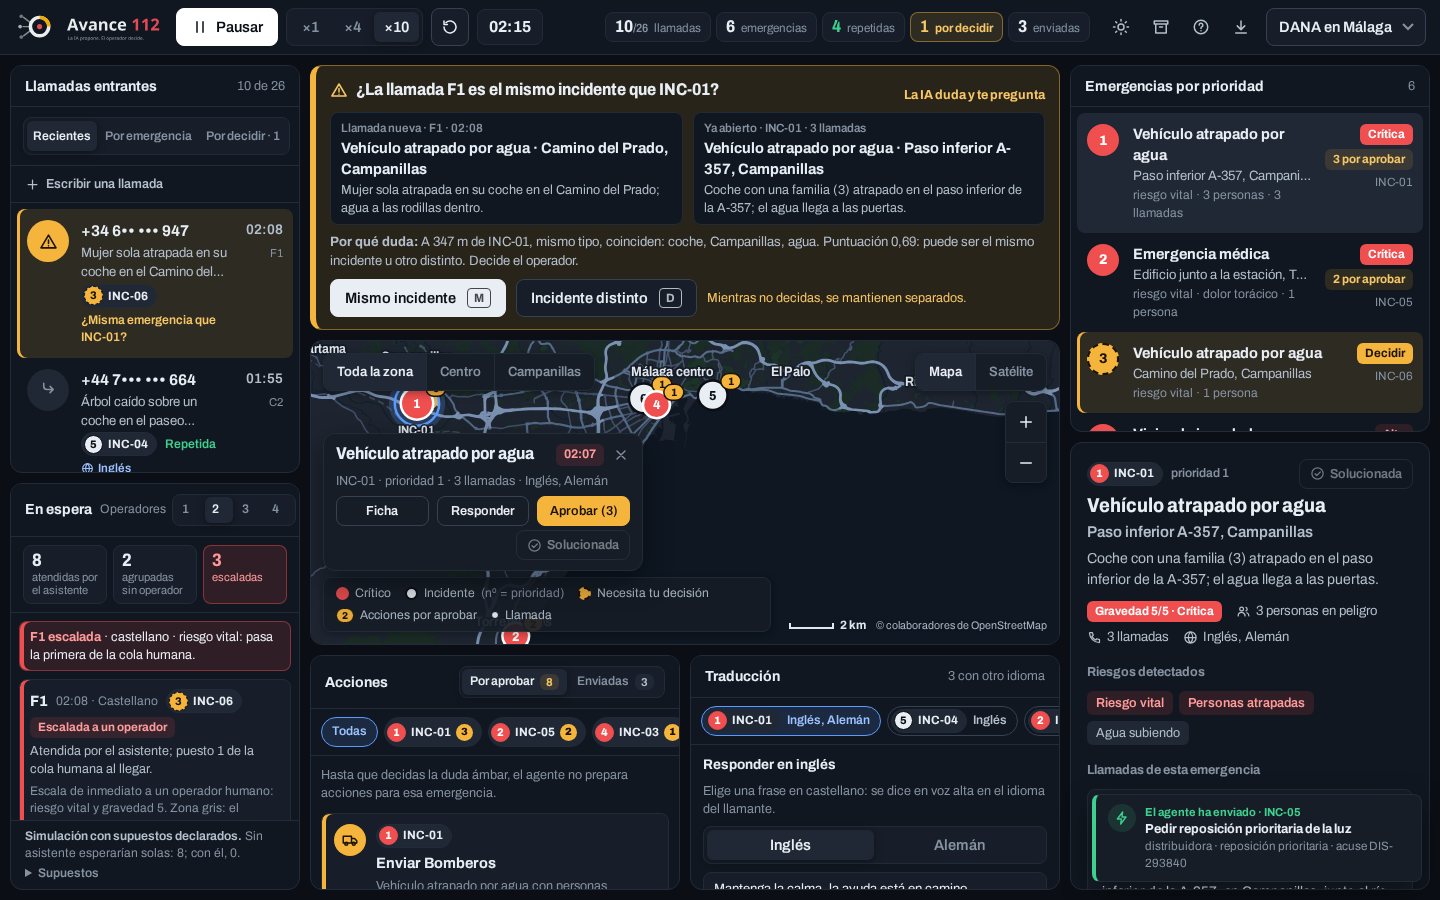
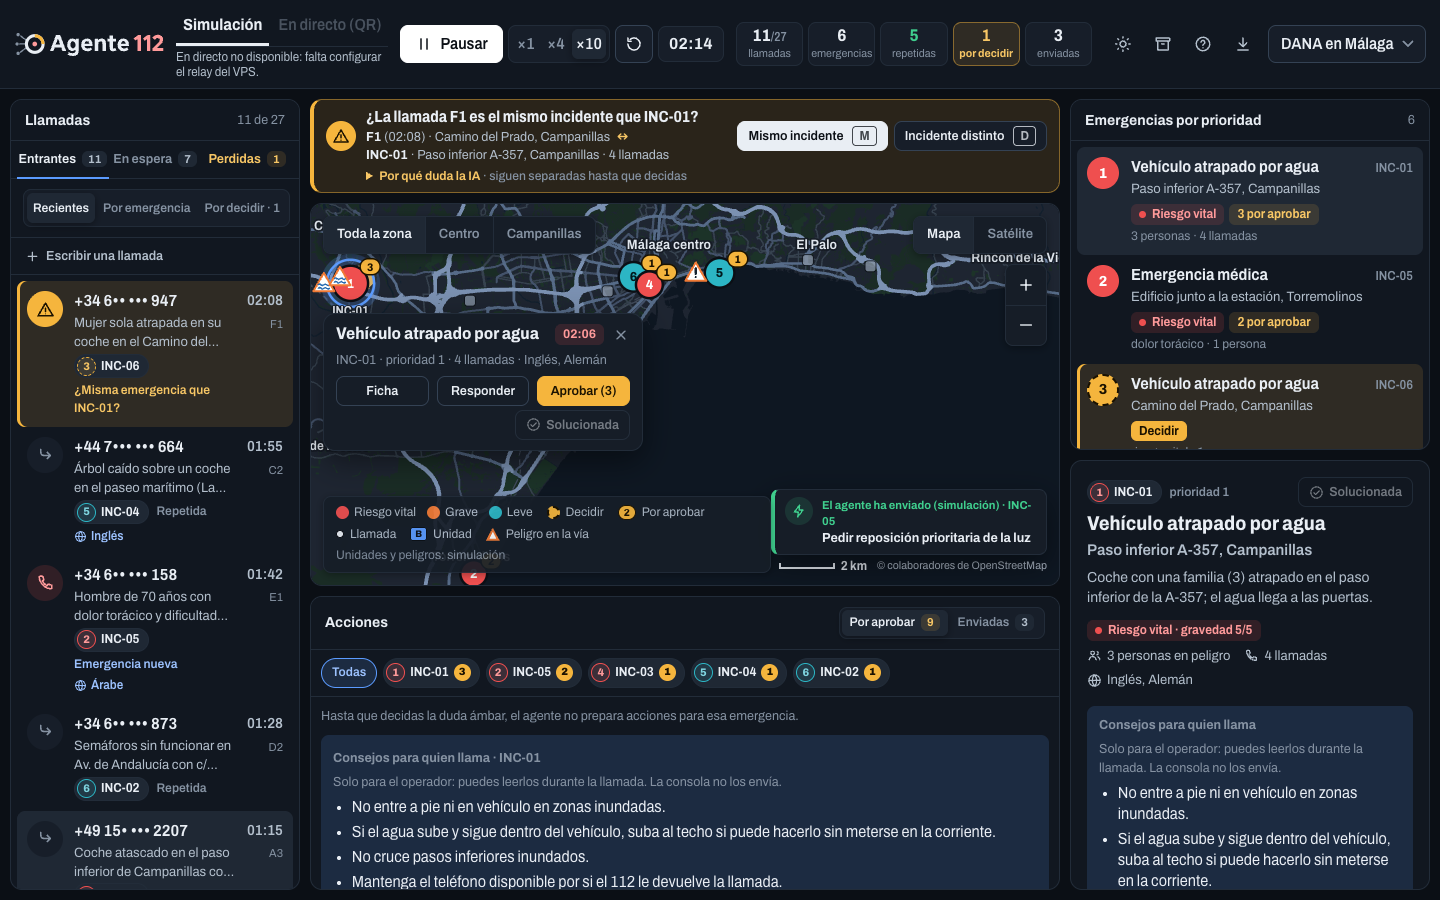
chore(limpieza): fuera el componente del QR sin uso y 41 capturas de pruebas; imagen y datos del README al día

diff --git a/app/globals.css b/app/globals.css
@@ -958,10 +958,6 @@ button.inc-token[aria-pressed="true"] { border-color: var(--accent); background:
 .conn { font-size: 12px; font-weight: 700; padding: 2px 8px; border-radius: 999px; border: 1px solid var(--line-strong); color: var(--ink-3); }
 .conn-open { color: var(--ok); background: var(--ok-bg); border-color: var(--ok); }
 .conn-down { color: var(--red); background: var(--red-bg); border-color: var(--red); }
-.qr { display: flex; align-items: center; gap: 10px; }
-.qr-img { width: 96px; height: 96px; flex: none; border: 1px solid var(--line); border-radius: var(--radius); background: #fff; }
-.qr-img svg { display: block; width: 100%; height: 100%; }
-.qr-url { font-weight: 600; color: var(--ink-2); overflow-wrap: anywhere; }
 .inbox-token input { flex: 1; min-width: 0; min-height: 38px; border: 1px solid var(--line-strong); border-radius: var(--radius); padding: 0 8px; background: var(--surface); }
 .inbox-list { display: grid; gap: 8px; }
 .inbox-item { border: 1px solid var(--line); border-radius: var(--radius); padding: 10px; display: grid; gap: 4px; background: var(--surface); }

diff --git a/README.md b/README.md
@@ -11,13 +11,13 @@ npm install
 npm run dev        # http://localhost:3000
 ```
 
-Pulsa **Iniciar** (velocidad ×4 o ×10). Verás 26 llamadas en 6 idiomas convertirse en 7 incidentes. Dos veces la consola se para en **ámbar** y pregunta: `M` = mismo incidente, `D` = incidente distinto. En el modo simulado la agrupación y la prioridad **se calculan igual** con el algoritmo real; solo la extracción de cada llamada viene del guion. La demo no hace ninguna petición externa: el mapa es una ortofoto del IGN incluida en la aplicación (sin teselas) y la fuente se instala con npm. El botón **Cómo funciona** lo explica todo en un minuto; el mapa se arrastra y se acerca con la rueda o con + y −.
+Pulsa **Iniciar** (velocidad ×4 o ×10). Verás 27 llamadas en 6 idiomas convertirse en 7 incidentes. Dos veces la consola se para en **ámbar** y pregunta: `M` = mismo incidente, `D` = incidente distinto. En el modo simulado la agrupación y la prioridad **se calculan igual** con el algoritmo real; solo la extracción de cada llamada viene del guion. La demo no hace ninguna petición externa: el mapa de calles y la ortofoto del IGN van incluidos en la aplicación (sin teselas) y la fuente se instala con npm. El botón **Cómo funciona** lo explica todo en un minuto; el mapa se arrastra y se acerca con la rueda o con + y −.
 
-En la pestaña **Simulación**, el selector cambia entre dos escenarios: **DANA en Málaga** (26 llamadas, 6 idiomas) y **Apagón en Málaga** (16 llamadas: ascensores, semáforos, oxígeno domiciliario y una residencia sin luz), para ver que el sistema generaliza.
+En la pestaña **Simulación**, el selector cambia entre dos escenarios: **DANA en Málaga** (27 llamadas, 6 idiomas) y **Apagón en Málaga** (16 llamadas: ascensores, semáforos, oxígeno domiciliario y una residencia sin luz), para ver que el sistema generaliza.
 
 ## Qué enseña la demo
 
-1. **Agrupar**: 26 llamadas → 7 incidentes. El contador de «repetidas» (líneas que quedan libres) sube; cada llamada lleva la etiqueta de su incidente (③ INC-03, el mismo número que en el mapa).
+1. **Agrupar**: 27 llamadas → 7 incidentes. El contador de «repetidas» (líneas que quedan libres) sube; cada llamada lleva la etiqueta de su incidente (③ INC-03, el mismo número que en el mapa).
 2. **Información nueva**: una llamada duplicada no se descarta; si dice «hay un bebé» o «no contesta», se avisa y sube la prioridad.
 3. **La ubicación del llamante no es la del incidente**: quien llama desde otro barrio se agrupa por la dirección que menciona.
 4. **Zona gris visible**: un segundo coche atrapado a ~460 m del primero no se fusiona solo; decide el operador.
@@ -82,7 +82,7 @@ Al final, el **parte de situación**, rotulado como simulación, recoge llamadas
 
 ### Dónde se ve en la consola
 
-En **Simulación**, el detalle del incidente muestra las tarjetas de «Acciones del agente», con **Aprobar y enviar** o **Descartar** cuando corresponde al operador. ES-Alert se muestra sin esos botones en los incidentes de la zona. Los envíos simulados aparecen sobre el mapa con su acuse; la cabecera cuenta las acciones enviadas, la cola marca las propuestas por aprobar y el registro JSON incluye la traza de acciones. **En directo (QR)** no genera acciones ni reproduce el audio del escenario.
+En **Simulación**, el detalle del incidente muestra las tarjetas de «Acciones del agente», con **Aprobar y enviar** o **Descartar** cuando corresponde al operador. ES-Alert se muestra sin esos botones en los incidentes de la zona. Los envíos simulados aparecen sobre el mapa con su acuse; la cabecera cuenta las acciones enviadas, la cola marca las propuestas por aprobar y el registro JSON incluye la traza de acciones. **En directo (QR)** muestra también la caja de Acciones para los incidentes de las llamadas aceptadas, separada de la de Simulación; no reproduce el audio del escenario ni usa las unidades simuladas.
 
 ### Ejecutar el agente en terminal
 
@@ -106,7 +106,7 @@ También se admiten los alias `--scenario`, `--operators`, `--coordinator` y `--
 
 ## Llamadas del público por QR (opcional)
 
-El público escanea el QR compartido, abre `/llamar` en el móvil y graba una llamada de prueba (sin mínimo, máximo 2 minutos). Dice qué pasa y **dónde** (calle o barrio de Málaga). El audio va a un relay en un VPS que lo transcribe con Whisper en CPU, extrae tipo, riesgos y lugar con un LLM si se configura, con reglas deterministas de respaldo (`lib/rules.ts`, `lib/gazetteer.ts`) y lo envía por SSE a la **bandeja «Llamadas del público»** de la consola. Nada entra en el mapa ni en la agrupación hasta que el operador pulsa **Aceptar**. Si no se reconoce el lugar, la llamada nunca se fusiona sola.
+El público escanea el QR compartido, abre `/llamar` en el móvil y graba una llamada de prueba (sin mínimo, máximo 2 minutos). Dice qué pasa y **dónde** (calle o barrio de Málaga). El audio va a un relay en un VPS que lo transcribe con Whisper (en la demo, en la GPU del ordenador del equipo), extrae tipo, riesgos y lugar con un LLM si se configura, con reglas deterministas de respaldo (`lib/rules.ts`, `lib/gazetteer.ts`) y lo envía por SSE a la **bandeja «Llamadas del público»** de la consola. Nada entra en el mapa ni en la agrupación hasta que el operador pulsa **Aceptar**. Si no se reconoce el lugar, la llamada nunca se fusiona sola.
 
 Para compartir el QR, abre `/qr-llamar.png` en la web desplegada o descarga el [PNG](public/qr-llamar.png), el [SVG](public/qr-llamar.svg) o la [tarjeta para presentaciones](public/qr-llamar-tarjeta.png). Si cambia la dirección pública, ejecuta desde la raíz `npx tsx scripts/qr-image.ts https://tu-dominio/llamar` con las dependencias del proyecto y Chromium de Playwright disponibles. Si Chromium está en otra ruta, indica el ejecutable con `CHROMIUM_EXECUTABLE_PATH`. El script regenera los tres archivos en `public/` sin consultar servicios externos.
 
@@ -135,13 +135,13 @@ navegador (consola) ── POST /api/process ──▶ servidor Next.js (sin est
 ## Comprobaciones
 
 ```bash
-npm run build && npm test && npm run eval     # compilación, 27 tests, evaluación sobre el escenario
+npm run build && npm test && npm run eval     # compilación, tests, evaluación sobre el escenario
 npm run eval:apagon                           # evaluación del escenario del apagón (6 incidentes, 1 pregunta)
 npm run eval -- --live                        # lo mismo con el LLM local (se salta si no hay LLM_BASE_URL)
 npm run start -- -p 3112 & node scripts/e2e.mjs   # prueba extremo a extremo con Playwright
 ```
 
-`npm run eval` agrupa las 26 llamadas y compara con la referencia: **7 incidentes, 0 fusiones incorrectas, 2 preguntas al operador**, y la llamada en árabe (infarto) entre las dos primeras de la cola.
+`npm run eval` agrupa las 27 llamadas y compara con la referencia: **7 incidentes, 0 fusiones incorrectas, 2 preguntas al operador**, y la llamada en árabe (infarto) entre las dos primeras de la cola.
 
 ## Privacidad y Ley de IA
 

diff --git a/odd/tasks/llamadas-publico.md b/odd/tasks/llamadas-publico.md
@@ -171,3 +171,4 @@ export function isPublicCallEvent(x: unknown): x is PublicCallEvent;
 - **L62** (usuario, con captura): «este hueco de la demo en simulación son las acciones añadelo para que se quede a la par la simulación y la demo». Antes, sobre el QR: «Ya está en el main el imagen del qr» → las imágenes se subieron a `main` en 1d6d511 junto con la fusión de cd701e4 (presentación de 9 diapositivas del compañero, sin conflictos).
 - **L63** (T30–T33 y correcciones): T30 — la leyenda se oculta mientras se ve la tarjeta de inicio (`.map-wrap:has(.welcome-actions) .map-legend`), comprobado en 4 tamaños × 2 temas; `public/qr-llamar.svg`, `qr-llamar.png` y `qr-llamar-tarjeta.png` con `scripts/qr-image.ts` (los PNG decodifican la URL exacta). T31 — panel sin QR; `event: hello` con la época del almacén y `cleared` con la nueva: una época distinta vacía la sesión en directo de la consola (acción `relayEpoch`). T32 — `lib/streetNames.ts` (5 086 vías dentro del límite municipal de Málaga, relación OSM 340746; `scripts/build_street_names.py --input … --boundary …`), `lib/streets.ts` (coincidencia aproximada limitada a confusiones de transcripción y nombres largos; una palabra suelta sin tipo de vía no basta; homónimos dentro del municipio no se adivinan; tramos encadenados de una avenida cuentan como una vía), afinado al portal con el nombre corregido si hay geocodificador; el índice se consulta siempre. Usuario: «SI dice direcciones que no sabe si es de málaga o duda ponlo en la palacio de feria y congreso de málaga» → `UNKNOWN_LOCATION_AML` = 36.70605, -4.45983 (sigue `known: false`). Idioma: manda Whisper si su código está admitido; el del modelo solo si el de Whisper no lo está; si ninguno, `und`. T33 — Acciones en directo aisladas de la Simulación, persistidas en la instantánea validada y borradas con la época; unidades y peligros siguen solo en Simulación; barra superior en una fila hasta 1366 px. Verificación independiente sobre 583c753: S30 y S31 cumplidas; S32 con dos fallos (vías de otros municipios, correcciones de una letra) corregidos en f4964ea. Verificación final: `tsc`, 791 tests, `eval` 7/0/2, `eval:apagon` 6/0/1, build y `e2e.mjs` «E2E OK» sin relay y con relay simulado. Usuario: «sube antes a la main todo»; la prueba de una dirección real la hará con el público; después pedirá limpieza del repositorio y actualizar la imagen del README, sin más cambios funcionales.
 - **L64** (segunda y tercera ronda del buscador de calles): la verificación independiente de f4964ea falló por erratas libres con títulos («Calle Santa Marina 3» → Santa María, a 11,6 km); e02e216 lo cerró solo en parte y la tercera verificación volvió a fallar con nombres de género cambiado y apellidos cercanos («Calle Antonia Soler 3» → Antonio Soler; «Federico Garcés Lorca» → García Lorca), también a través del relay. Decisión del orquestador: se eliminan las erratas libres por completo; `lib/streets.ts` solo acepta acentos, palabras unidas o partidas, partículas y confusiones de oído enumeradas (b/v, s/z/c suave, j/g suave, ll/y, h muda, letras dobles, -ski/-sky), comparadas palabra a palabra, y con tipo de vía o dos palabras distintivas. Se pierde a propósito «Manuel Bnítez el Cordbés» (letras omitidas) y «Demóstenes, Málaga» sin tipo de vía; el caso real «calle de Móstenes número 29» sigue resolviéndose. «Calle Conejito de Málaga» ya no se confunde con «Calle Conejito». En el barrido del verificador sobre todo el índice (16 622 consultas) las 137 confusiones de oído admitidas no chocan con ninguna otra vía real. Sin corregir (aviso A1, anterior a hoy): una llamada con lugar conocido junto al punto por defecto puede fusionarse sola con un incidente formado solo por llamadas sin ubicación; el plural («Enrique Granado» → Granados) ya no se corrige. Un worker se cortó por cuota y se reanudó tras el cambio de perfil del usuario.
+- **L65** (limpieza; usuario: «haz la limpieza ya», tras «limpieza del repo de todas las cosas que son basura de lo que hemos hecho hoy y ayer, actualiza el readme el imagen que es antiguo. Pero no se implementa ni se modifica nada más después de lo nuestro»): se borran `components/CallQRCode.tsx` (sin uso desde T31) con sus cuatro reglas de CSS y 41 capturas de pruebas de `docs/capturas/` añadidas por esta rama el 24 y 25 de noviembre (solo citadas en los diarios); `docs/capturas/consola-decision.png` se regenera con la consola actual (decisión ámbar de F1); README y `server/README.md` dejan de decir que «En directo» no tiene acciones, que Whisper corre en CPU, que hay 27 tests, que son 26 llamadas y que la consola muestra el QR. No se tocan los archivos de otros autores (`canvas.png`, `canvas_jensen_huang.pdf`, `EMPIEZA-AQUI.md`, `nombres.md`, `pendiente de implementacion-agents.md`, `presentacion/`, `brag-output*`, `components/TranslateBox.tsx`, `scripts/live-test.mjs`, `scripts/mock-ai.mjs`). Tras la limpieza: `tsc`, 820 tests, `eval`, `eval:apagon`, build y `e2e.mjs` «E2E OK». Sin cambios funcionales: no se redespliega.

diff --git a/server/README.md b/server/README.md
@@ -80,7 +80,7 @@ tailscale funnel status
 
 `funnel status` muestra la URL pública `https://<nodo>.<tailnet>.ts.net` apuntando a `http://127.0.0.1:8080`.
 
-**f) Usa la consola.** El operador abre `https://<nodo>.<tailnet>.ts.net/#op=<RELAY_TOKEN>` (se guarda en el navegador y se borra de la URL; si guardó uno equivocado, «Cambiar token» en la bandeja). La consola muestra un QR que apunta a `/llamar`: el público lo escanea desde el móvil.
+**f) Usa la consola.** El operador abre `https://<nodo>.<tailnet>.ts.net/#op=<RELAY_TOKEN>` (se guarda en el navegador y se borra de la URL; si guardó uno equivocado, «Cambiar token» en la bandeja). El QR que apunta a `/llamar` es una imagen (`public/qr-llamar.png`, y la tarjeta `public/qr-llamar-tarjeta.png` para proyectar): el público lo escanea desde el móvil.
 `NEXT_PUBLIC_MAX_CALL_SECONDS` (corte de la grabación en el navegador) se fija al construir la web con el mismo `MAX_CALL_SECONDS` del servidor, así que no hay que mantener dos valores; si lo cambias, vuelve a ejecutar el comando del paso c).
 
 **g) Prueba de la IP del cliente (importante).** El límite de llamadas por IP necesita la IP real del cliente. Funnel debería pasarla en `X-Forwarded-For`, pero no está verificado en este despliegue. Prueba con dos móviles **con datos móviles** (no wifi): cada uno hace una llamada y mira:
